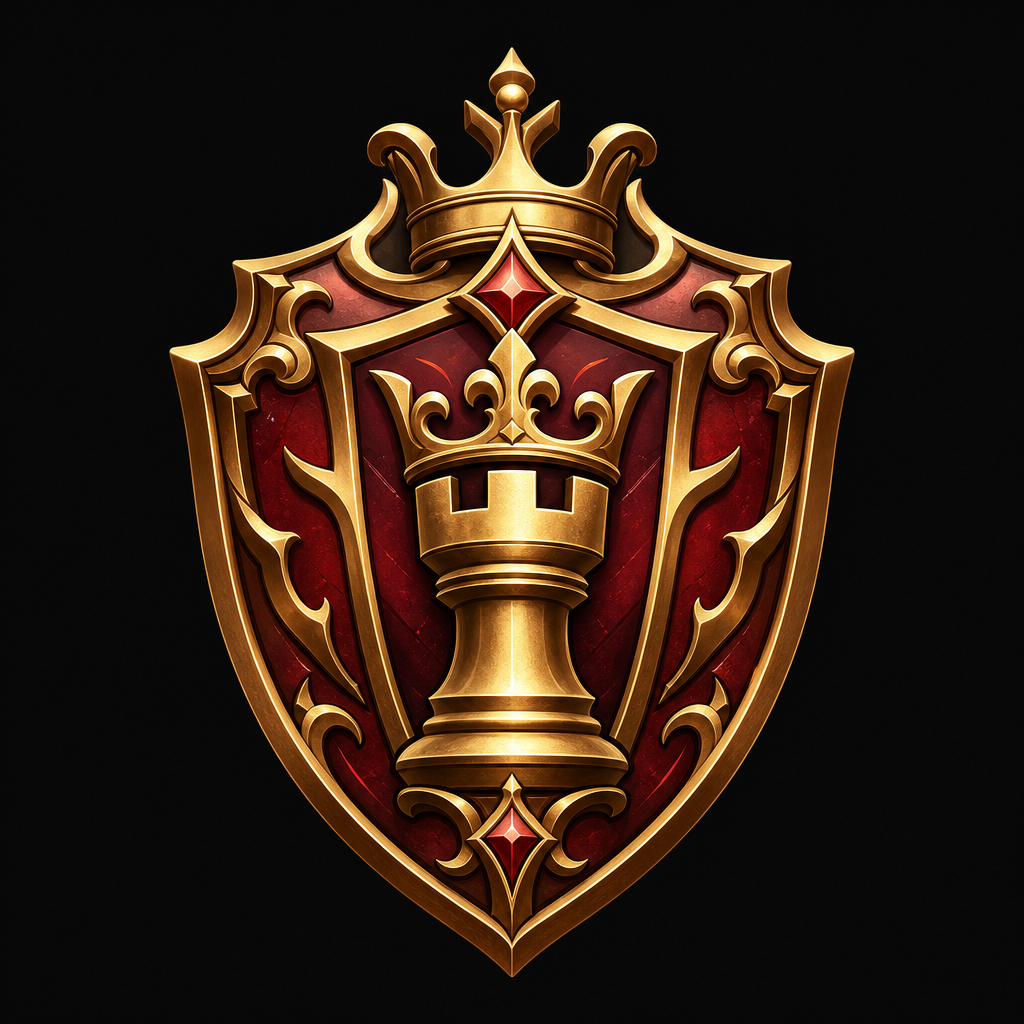
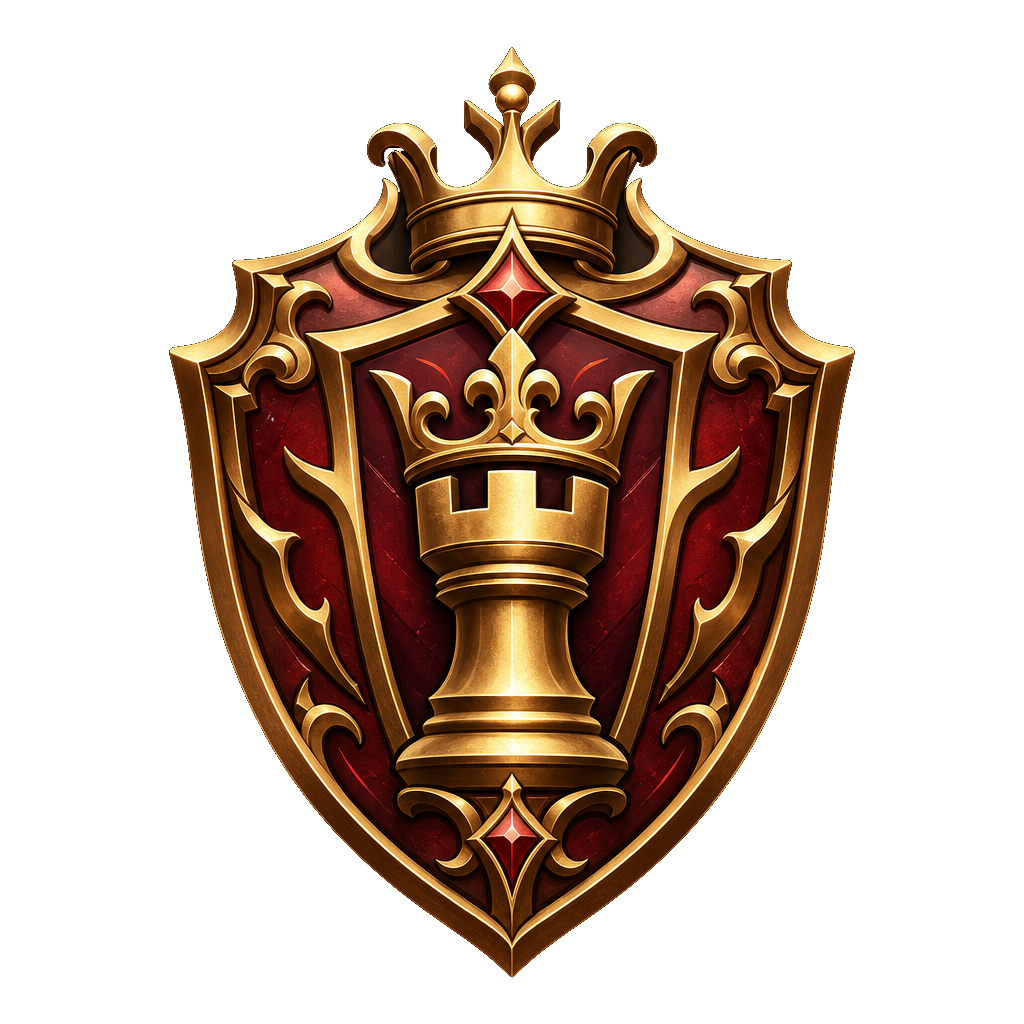
Clarify custom quest visibility and crest transparency

diff --git a/apps/mobile/App.tsx b/apps/mobile/App.tsx
@@ -2961,6 +2961,25 @@ function getCustomLibraryMeta(quest: Pick<CustomLibraryQuest, "summary" | "visib
   return [quest.lifecycle === "draft" ? "Draft" : quest.lifecycle === "archived" ? "Archived" : "Published", getCustomVisibilityLabel(quest.visibility), quest.summary].filter(Boolean).join(" · ");
 }
 
+function getCustomVisibilityTitle(visibility?: "private" | "public") {
+  return visibility === "public" ? "Public: shareable summary" : "Private: only you manage it";
+}
+
+function getCustomVisibilityExplanation(visibility?: "private" | "public") {
+  if (visibility === "public") {
+    return "Other players may see the title, goal, and Coat of Arms when you share it or when public custom Side Quest browsing arrives. Your editor details and account stay private.";
+  }
+
+  return "Only you can find and manage this Side Quest in your library. You can still include it in Multiplayer rooms you host; players only see the title, goal, and Coat of Arms needed to play.";
+}
+
+function getCustomStateSavedMessage(name: string, next: { lifecycle?: "draft" | "published" | "archived"; visibility?: "private" | "public" }) {
+  if (next.lifecycle === "archived") return `${name} is archived and no longer playable.`;
+  if (next.visibility === "public") return `${name} is public. Other players may see its title, goal, and Coat of Arms when it is shared.`;
+  if (next.visibility === "private") return `${name} is private. Only you can manage it, but you can still use it in Multiplayer rooms you host.`;
+  return `${name} is published and ready to play.`;
+}
+
 const CUSTOM_SIDE_QUEST_SINGLE_CREST_PATH = "/badges/custom/custom-side-quest-crest.png";
 
 function getCustomStatsLine(stats?: MobileCustomSideQuest["stats"]) {
@@ -3575,7 +3594,7 @@ function QuestBoardDashboard({
           const sessionToken = await authBridge.getSessionToken();
           await saveMobileCustomSideQuest({ sessionToken, id: quest.id, title: quest.name, summary: quest.summary, config: quest.config, lifecycle: next.lifecycle ?? quest.lifecycle ?? "published", visibility: next.visibility ?? quest.visibility ?? "private" });
           await Promise.resolve(onAccountUpdated());
-          Alert.alert("Custom Side Quest updated", `${quest.name} is now ${next.lifecycle === "archived" ? "archived" : next.visibility === "public" ? "marked public" : next.visibility === "private" ? "private" : "published"}.`);
+          Alert.alert("Custom Side Quest updated", getCustomStateSavedMessage(quest.name, next));
         }}
         onViewResult={customDetailCompletedQuest ? () => {
           setCompletedDetailId(customDetailCompletedQuest.id);
@@ -3845,6 +3864,7 @@ function QuestBoardDashboard({
                 <Text style={compactStyles.multiplayerRuleLabel}>Rule preview</Text>
                 <Text style={compactStyles.multiplayerRuleValue}>{customRuleSummary}</Text>
               </View>
+              <Text style={styles.microcopy}>New custom Side Quests start private. After saving, open it from your library if you want to make the safe title, goal, and Coat of Arms public/shareable.</Text>
               <Pressable accessibilityRole="button" accessibilityLabel="Save custom Side Quest" style={compactStyles.detailPrimaryButton} onPress={() => void saveCustomDraft("published")}>
                 <Text style={compactStyles.detailPrimaryButtonText}>Publish Private Side Quest</Text>
               </Pressable>
@@ -4704,7 +4724,7 @@ function SideQuestsScreen({
           const sessionToken = await authBridge.getSessionToken();
           await saveMobileCustomSideQuest({ sessionToken, id: quest.id, title: quest.name, summary: quest.summary, config: quest.config, lifecycle: next.lifecycle ?? quest.lifecycle ?? "published", visibility: next.visibility ?? quest.visibility ?? "private" });
           await Promise.resolve(onAccountUpdated());
-          Alert.alert("Custom Side Quest updated", `${quest.name} is now ${next.lifecycle === "archived" ? "archived" : next.visibility === "public" ? "marked public" : next.visibility === "private" ? "private" : "published"}.`);
+          Alert.alert("Custom Side Quest updated", getCustomStateSavedMessage(quest.name, next));
         }}
       />
 
@@ -4970,6 +4990,7 @@ function SideQuestsScreen({
                 <Text style={compactStyles.multiplayerRuleLabel}>Rule preview</Text>
                 <Text style={compactStyles.multiplayerRuleValue}>{customRuleSummary}</Text>
               </View>
+              <Text style={styles.microcopy}>New custom Side Quests start private. After saving, open it from your library if you want to make the safe title, goal, and Coat of Arms public/shareable.</Text>
               <Pressable accessibilityRole="button" accessibilityLabel="Save custom Side Quest" style={compactStyles.detailPrimaryButton} onPress={() => void saveCustomDraft("published")}>
                 <Text style={compactStyles.detailPrimaryButtonText}>Publish Private Side Quest</Text>
               </Pressable>
@@ -5911,11 +5932,11 @@ function CustomSideQuestDetailModal({
           </View>
 
           <View style={compactStyles.proofScrollCard}>
-            <Text style={compactStyles.proofScrollEyebrow}>Library</Text>
-            <Text style={compactStyles.proofScrollTitle}>{getCustomVisibilityLabel(quest.visibility)} Side Quest</Text>
-            <Text style={compactStyles.proofScrollCopy}>{quest.visibility === "public" ? "Public Side Quests can be shared later. Other players see the title, goal, and Coat of Arms." : "Only you can see it. You can still use it in Solo or in Multiplayer rooms you create."}</Text>
+            <Text style={compactStyles.proofScrollEyebrow}>Visibility</Text>
+            <Text style={compactStyles.proofScrollTitle}>{getCustomVisibilityTitle(quest.visibility)}</Text>
+            <Text style={compactStyles.proofScrollCopy}>{getCustomVisibilityExplanation(quest.visibility)}</Text>
             <View style={compactStyles.proofScrollRule} />
-            <Text style={compactStyles.proofScrollMeta}>{statusLabel} · {canStart ? "Ready for Solo and Multiplayer" : "Publish it before playing"}</Text>
+            <Text style={compactStyles.proofScrollMeta}>{statusLabel} · {canStart ? "Playable in Solo and your hosted Multiplayer rooms" : "Publish it before playing"}</Text>
           </View>
 
           <View style={compactStyles.proofScrollCard}>
@@ -5950,7 +5971,7 @@ function CustomSideQuestDetailModal({
           ) : null}
           {onSaveState && lifecycle === "published" ? (
             <Pressable accessibilityRole="button" accessibilityLabel="Toggle custom Side Quest visibility" style={compactStyles.detailSecondaryButton} disabled={Boolean(manageBusy)} onPress={() => void handleSaveState({ lifecycle: "published", visibility: quest.visibility === "public" ? "private" : "public" })}>
-              <Text style={compactStyles.detailSecondaryButtonText}>{manageBusy === "state" ? "Saving..." : quest.visibility === "public" ? "Make private" : "Share publicly"}</Text>
+              <Text style={compactStyles.detailSecondaryButtonText}>{manageBusy === "state" ? "Saving..." : quest.visibility === "public" ? "Make private again" : "Make public / shareable"}</Text>
             </Pressable>
           ) : null}
           {onSaveState && lifecycle !== "archived" ? (